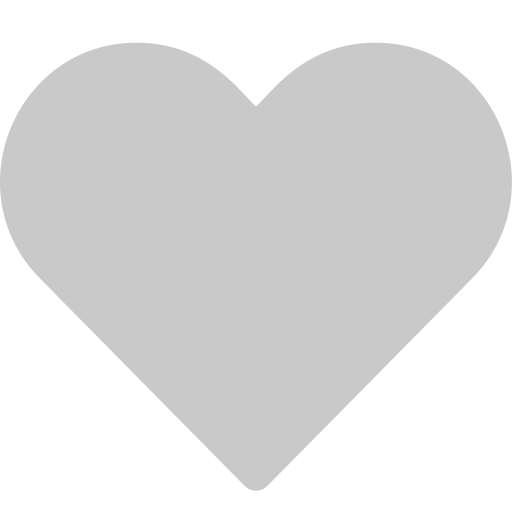
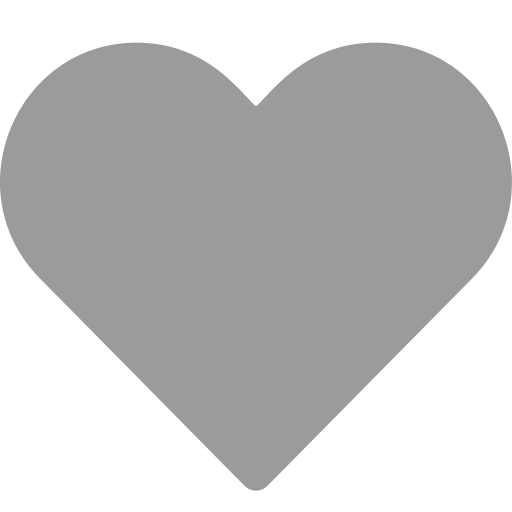
push

diff --git a/src/components/MealDisplay.jsx b/src/components/MealDisplay.jsx
@@ -1,14 +1,49 @@
-/* eslint-disable react/prop-types */
-import heart from '../assets/heart (1).png'
+import { useContext, useState } from "react";
+import heart from "../assets/heart (1).png";
+import heartActive from "../assets/heart.png";
+import { MealContext } from "../context/MealContext";
 function MealDisplay({ meal }) {
-    console.log(meal)
+  const {isActive,setIsActive} = useContext(MealContext)
+  //addMealID to LocalStorage
+  const addMealLs = (mealId) => {
+    const mealLs = getMealLs();
+    localStorage.setItem("MealId", JSON.stringify([...mealLs, mealId]));
+  };
+  //delete mealID from localStorage
+  const removeMealLs = (mealId) => {
+    const mealLs = getMealLs();
+    localStorage.setItem(
+      "MealId",
+      JSON.stringify(mealLs.filter((meal) => meal !== mealId))
+    );
+  };
+  const handleClick = () => {
+    if (!isActive) {
+      addMealLs(meal.idMeal);
+      setIsActive(true);
+    } else {
+      removeMealLs(meal.idMeal);
+      setIsActive(false);
+    }
+  };
+
+  //get MealId from LocalStorage
+  const getMealLs = () => {
+    const getId = JSON.parse(localStorage.getItem("MealId")) || [];
+    return getId;
+  };
   return (
-    <div className='relative'>
-      <img src={meal.strMealThumb} className="w-full rounded-t-md h-[240px] object-cover"/>
-      <span className='bg-white absolute top-4 px-2 rounded-r-sm'>Random</span>
-      <div className='flex items-center justify-between'>
-        <h2 className="px-4 py-3 font-bold text-lg">{meal.strMeal}</h2>
-        <button><img src={heart} className='w-6 mr-5'/></button>
+    <div className="relative">
+      <img
+        src={meal.strMealThumb}
+        className="w-full rounded-t-md h-[240px] object-cover"
+      />
+      <span className="bg-white absolute top-4 px-2 rounded-r-sm">Random</span>
+      <div className="flex items-center justify-between py-4">
+        <h2 className="px-4 font-bold text-lg">{meal.strMeal}</h2>
+        <button onClick={handleClick}>
+          <img src={isActive ? heartActive : heart} className="w-5 mr-5" />
+        </button>
       </div>
     </div>
   );

diff --git a/src/App.jsx b/src/App.jsx
@@ -1,23 +1,25 @@
 import GetRandomMeal from "./api/GetRandomMeal";
-import searchPng from './assets/search-interface-symbol.png'
+import searchPng from "./assets/search-interface-symbol.png";
+import MealProvider from "./context/MealContext";
 function App() {
-
   return (
     //app box
-    <div className=" min-h-screen flex items-center justify-center flex-col bg-gray-200">
-      <div className=" shadow-[5px_5px_40px_1px_#a0aec0] rounded-lg w-[400px] bg-gray-100">
-        <div className=" px-10 py-10 flex justify-center items-center">
-          <input className="shadow-[rgba(0,_0,_0,_0.24)_4px_3px_15px_4px] px-3 py-1 rounded-sm outline-none" />
-          <button>
-            <img src={searchPng} className=" w-7 ml-5" />
-          </button>
-        </div>
-        <div className="p-8">
-          <GetRandomMeal />
+    <MealProvider>
+      <div className=" min-h-screen flex items-center justify-center flex-col bg-gray-200">
+        <div className=" shadow-[5px_5px_40px_1px_#a0aec0] rounded-lg w-[400px] bg-gray-100">
+          <div className=" px-10 py-10 flex justify-center items-center">
+            <input className="shadow-[rgba(0,_0,_0,_0.24)_4px_3px_15px_4px] px-3 py-1 rounded-sm outline-none" />
+            <button>
+              <img src={searchPng} className=" w-7 ml-5" />
+            </button>
+          </div>
+          <div className="p-8">
+            <GetRandomMeal />
+          </div>
         </div>
       </div>
-    </div>
+    </MealProvider>
   );
 }
 
-export default App
+export default App;

diff --git a/src/api/GetRandomMeal.jsx b/src/api/GetRandomMeal.jsx
@@ -26,7 +26,6 @@ function GetRandomMeal() {
       }
     }
 
-    
     return () => {
       fetchMeal();
       // Fetch meal when the component mounts
@@ -34,7 +33,7 @@ function GetRandomMeal() {
   }, []); // Empty dependency array ensures the effect runs only once
 
   return (
-    <div className="rounded-md bg-gray-400">
+    <div className="rounded-md bg-[#babfbc]">
       {isLoading && <h1 className="font-bold text-center py-4">Loading...</h1>}
       {error && <p className="font-bold text-center">Error: {error}</p>}
       {meal && <MealDisplay meal={meal} />}

diff --git a/src/context/MealContext.jsx b/src/context/MealContext.jsx
@@ -1,0 +1,15 @@
+import React, { createContext, useState } from "react";
+
+export const MealContext = createContext();
+
+const MealProvider = ({ children }) => {
+  const [isActive, setIsActive] = useState(false);
+
+  return (
+    <MealContext.Provider value={{ isActive, setIsActive }}>
+      {children}
+    </MealContext.Provider>
+  );
+};
+
+export default MealProvider;

diff --git a/src/components/FavMeal.jsx b/src/components/FavMeal.jsx
@@ -1,0 +1,11 @@
+import React from 'react'
+
+function FavMeal() {
+  return (
+    <div>
+      
+    </div>
+  )
+}
+
+export default FavMeal
